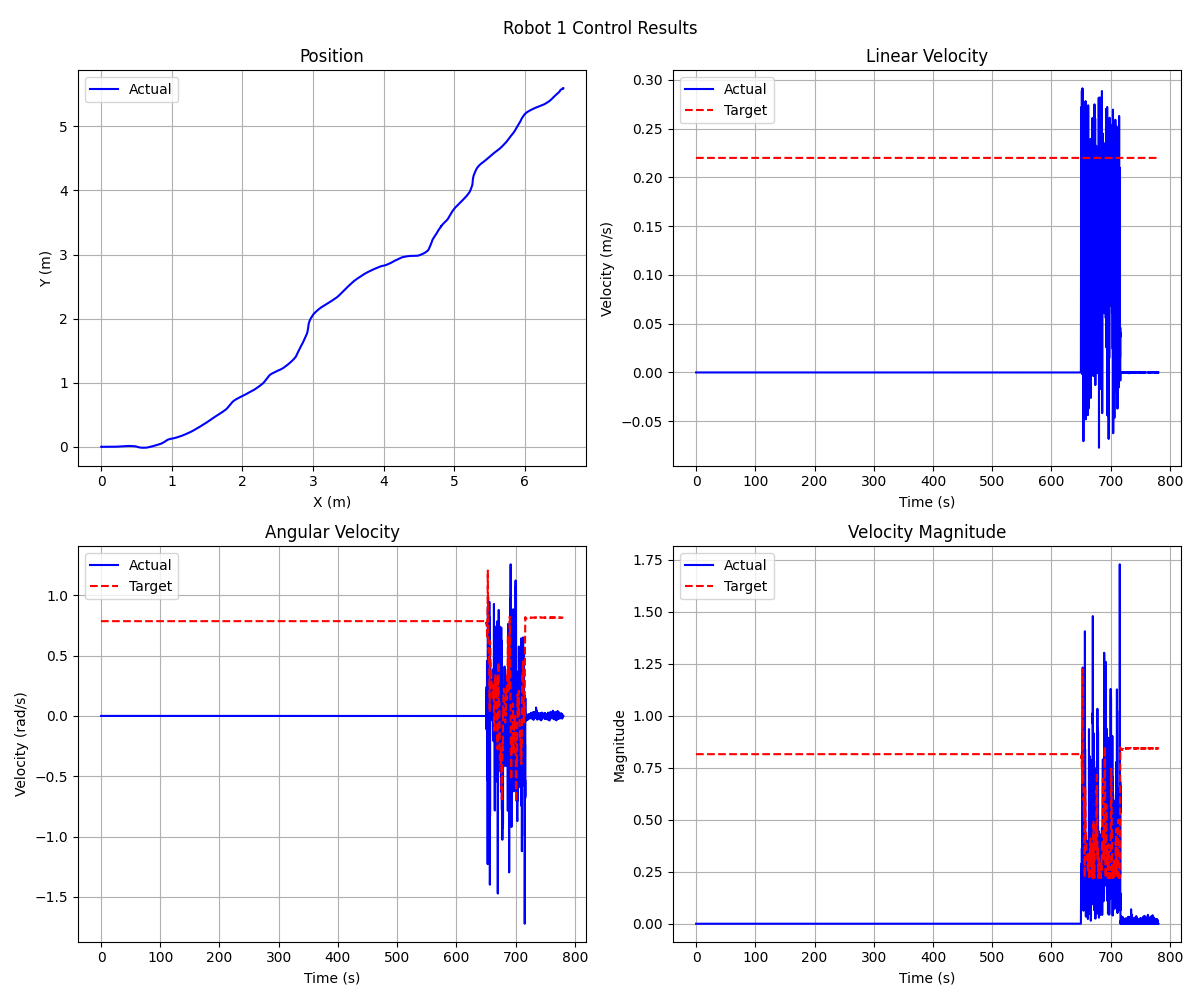
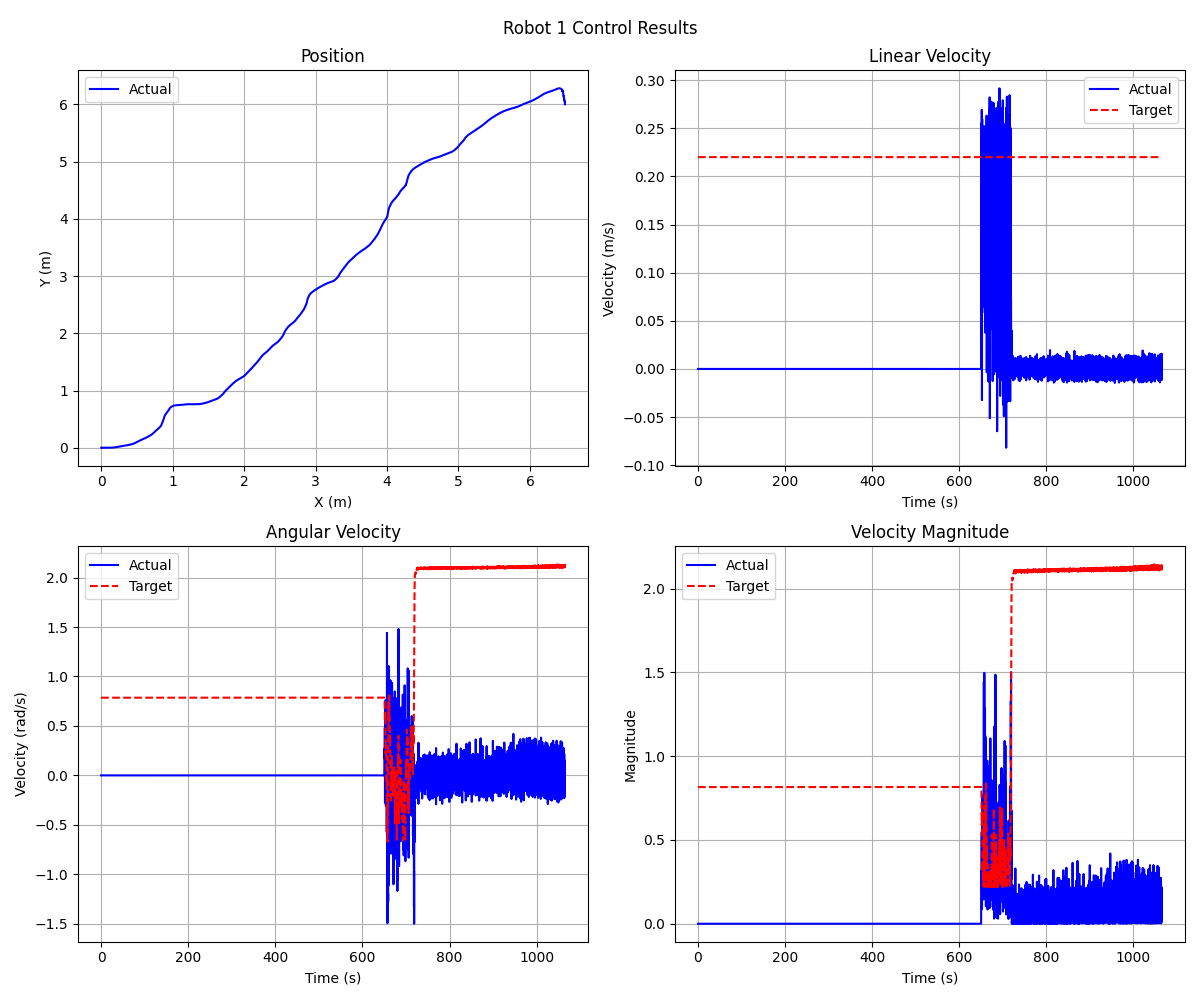
edited wall reuplsion

diff --git a/src/swarm_explorer/src/swarm_explorer/controller.py b/src/swarm_explorer/src/swarm_explorer/controller.py
@@ -122,14 +122,44 @@ class TurtlebotController(object):
         self.alignment_vel = self.alignment_vel / np.linalg.norm(self.alignment_vel)
 
         # Wall velocity
+        # x_min, x_max, y_min, y_max = latest_map.get_limits()
+        # raw_wall_vel = np.array(
+        #     [
+        #         -1 if self.state[0] < x_min else 1 if self.state[0] > x_max else 0,
+        #         -1 if self.state[1] < y_min else 1 if self.state[1] > y_max else 0,
+        #     ]
+        # )
+        # norm = np.linalg.norm(raw_wall_vel)
+        # self.wall_vel = raw_wall_vel / norm if norm > 0 else np.zeros(2) # avoid division by zero
+        # Wall velocity (repel from nearby walls using potential-field-like logic)
+        
+        # Wall Repulsion
         x_min, x_max, y_min, y_max = latest_map.get_limits()
-        self.wall_vel = np.array(
-            [
-                -1 if self.state[0] < x_min else 1 if self.state[0] > x_max else 0,
-                -1 if self.state[1] < y_min else 1 if self.state[1] > y_max else 0,
-            ]
-        )
-        self.wall_vel = self.wall_vel / np.linalg.norm(self.wall_vel)
+
+        # Distance to walls
+        dx_min = self.state[0] - x_min
+        dx_max = x_max - self.state[0]
+        dy_min = self.state[1] - y_min
+        dy_max = y_max - self.state[1]
+
+        repel = np.zeros(2)
+        repel_threshold = 0.5  # Adjust this threshold as needed
+
+        # X-direction repulsion
+        if dx_min < repel_threshold:
+            repel[0] += 1.0 / (dx_min + 1e-3)
+        if dx_max < repel_threshold:
+            repel[0] -= 1.0 / (dx_max + 1e-3)
+
+        # Y-direction repulsion
+        if dy_min < repel_threshold:
+            repel[1] += 1.0 / (dy_min + 1e-3)
+        if dy_max < repel_threshold:
+            repel[1] -= 1.0 / (dy_max + 1e-3)
+
+        # Normalize
+        norm = np.linalg.norm(repel)
+        self.wall_vel = repel / norm if norm > 0 else np.zeros(2)
 
         # Obstacle velocity
         surrounding_obstacles = latest_map.get_surrounding_obstacles(
@@ -373,6 +403,7 @@ class TurtlebotController(object):
         actual_velocities = np.array(self.actual_velocities)
         target_velocities = np.array(self.target_velocities)
         times = np.array(self.times)
+    
 
         rospy.loginfo(f"Data shapes - positions: {actual_positions.shape}, velocities: {actual_velocities.shape}, times: {times.shape}")
 

diff --git a/src/mapping/src/mapping/occupancy_grid_2d.py b/src/mapping/src/mapping/occupancy_grid_2d.py
@@ -210,10 +210,18 @@ class OccupancyGrid2d(object):
           
                 
             voxel_final = self.point_to_voxel(x_final, y_final)
-            self._map[voxel_final] = min(self._map[voxel_final] + self._occupied_update, self._occupied_threshold)
-            for voxel in voxels:
-                if voxel != voxel_final:
-                    self._map[voxel] = max(self._map[voxel] + self._free_update, self._free_threshold)
+            print("voxel_final", voxel_final)
+            print(self._x_num, self._y_num)
+            print(self._map)
+            if voxel_final[0] > self._x_num or voxel_final[1] > self._y_num:
+                print("voxel_final out of bounds")
+                continue
+            else:
+                # Update the log-odds value at the final voxel.
+                self._map[voxel_final] = min(self._map[voxel_final] + self._occupied_update, self._occupied_threshold)
+                for voxel in voxels:
+                    if voxel != voxel_final:
+                        self._map[voxel] = max(self._map[voxel] + self._free_update, self._free_threshold)
                 
 
         # Visualize.
